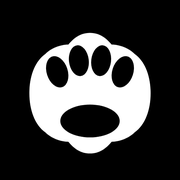
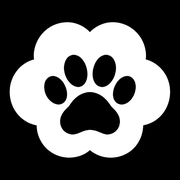
style: 使用参考图猫爪图标并移动系统消息按钮
Scale the provided black-and-white cloud paw artwork directly for all app icons, move the system-message toggle into the composer row before the input, and bump the service-worker cache to v8.

Changed region(s): [[0.0278, 0.1111, 0.9722, 0.8889]]

diff --git a/frontend/src/pages/Room.tsx b/frontend/src/pages/Room.tsx
@@ -1469,18 +1469,6 @@ export default function RoomPage() {
               </ul>
             </div>
           )}
-          {hasSystemMessages && (
-            <div className="system-filter">
-              <button
-                type="button"
-                className={hideSystem ? "active" : ""}
-                aria-pressed={hideSystem}
-                onClick={() => setHideSystem((v) => !v)}
-              >
-                {hideSystem ? "显示系统消息" : "隐藏系统消息"}
-              </button>
-            </div>
-          )}
           <ul
             className="messages"
             ref={listRef}
@@ -1598,6 +1586,16 @@ export default function RoomPage() {
                 }}
               />
             </label>
+            )}
+            {hasSystemMessages && (
+              <button
+                type="button"
+                className={`system-toggle${hideSystem ? " active" : ""}`}
+                aria-pressed={hideSystem}
+                onClick={() => setHideSystem((v) => !v)}
+              >
+                {hideSystem ? "显示系统消息" : "隐藏系统消息"}
+              </button>
             )}
             <textarea
               rows={1}

diff --git a/frontend/src/styles.css b/frontend/src/styles.css
@@ -767,23 +767,13 @@ button.link {
   display: none;
 }
 
-/* 系统消息显隐按钮：放在消息列表上方，手机端也保持可见。 */
-.system-filter {
-  display: flex;
-  justify-content: flex-end;
-  padding: 6px 16px 0;
-}
-
-.system-filter button {
-  min-height: 28px;
-  padding: 2px 10px;
+/* 系统消息显隐按钮：与输入框同一行，位于输入框之前。 */
+.composer .system-toggle {
+  flex: 0 0 auto;
+  min-height: 40px;
+  padding: 0 8px;
   font-size: 12px;
-}
-
-@media (max-width: 600px) {
-  .system-filter {
-    padding: 4px 10px 0;
-  }
+  white-space: nowrap;
 }
 
 .message .body {

diff --git a/frontend/public/sw.js b/frontend/public/sw.js
@@ -1,8 +1,8 @@
 /* CloudRoom PWA service worker：离线壳 + 静态资源运行时缓存。
  * 只缓存同源 GET；/api/ 与 WebSocket 永不缓存。 */
-const SHELL = "cloudroom-shell-v5";
-const ASSETS = "cloudroom-assets-v5";
-const SHELL_FILES = ["/", "/manifest.json", "/icon.svg", "/icon-192.png", "/icon-512.png", "/apple-touch-icon.png"];
+const SHELL = "cloudroom-shell-v8";
+const ASSETS = "cloudroom-assets-v8";
+const SHELL_FILES = ["/", "/manifest.json", "/icon-192.png", "/icon-512.png", "/apple-touch-icon.png"];
 
 self.addEventListener("install", (event) => {
   event.waitUntil(

diff --git a/frontend/index.html b/frontend/index.html
@@ -6,7 +6,6 @@
     <meta name="referrer" content="no-referrer" />
     <meta name="theme-color" content="#0f1115" />
     <link rel="manifest" href="/manifest.json" />
-    <link rel="icon" type="image/svg+xml" href="/icon.svg" />
     <link rel="icon" type="image/png" sizes="192x192" href="/icon-192.png" />
     <link rel="apple-touch-icon" href="/apple-touch-icon.png" />
     <title>云间 CloudRoom</title>

diff --git a/CHANGELOG.md b/CHANGELOG.md
@@ -1,4 +1,5 @@
 # Changelog
+- 2026-11-11（图标/系统消息入口）：应用图标直接按参考图黑白猫爪云朵缩放，保留原形状与黑色留边；系统消息显隐按钮移到输入框同一行左侧。
 - 2026-11-11（修复）：系统消息识别兼容后端下发的 `sender.user_id=null`，确保灰色小字、无消息操作和隐藏开关生效；房主昵称描边加粗到 2px。
 - 2026-11-11（房主标识/设置/头像/图标）：房主昵称改为普通字色反色填充、反色描边；设置页选中标签改白字；修复非方形头像裁剪预览被压成正方形；应用图标改为黑底白色云朵猫爪、黑色肉垫，云朵上下近似对称，主肉垫为类椭圆，Service Worker 缓存升级 v5。
 - 2026-11-11（系统消息/通知设置）：系统消息改为灰色小号背景信息并移除全部消息操作，新增“隐藏系统消息”开关；通知范围与免打扰改为卡片式分段选择，统一设置页视觉。
